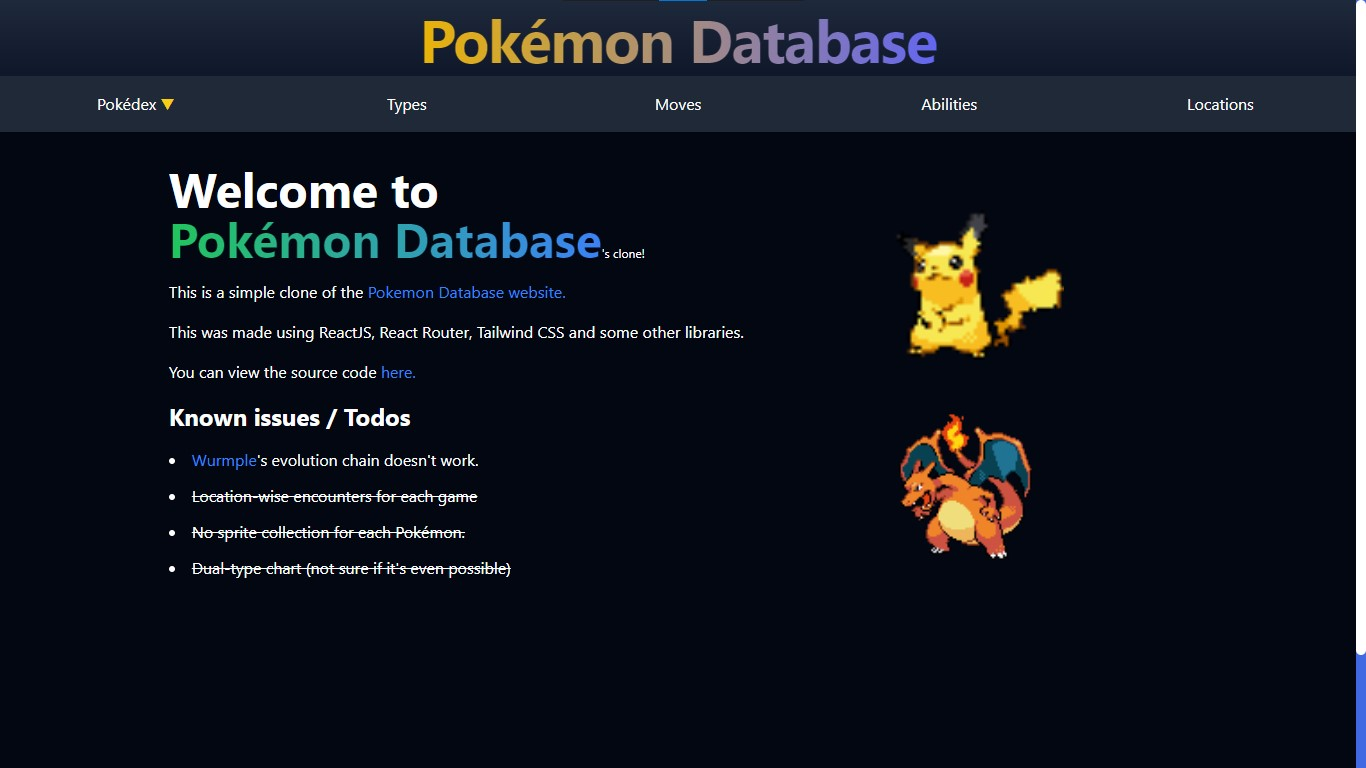
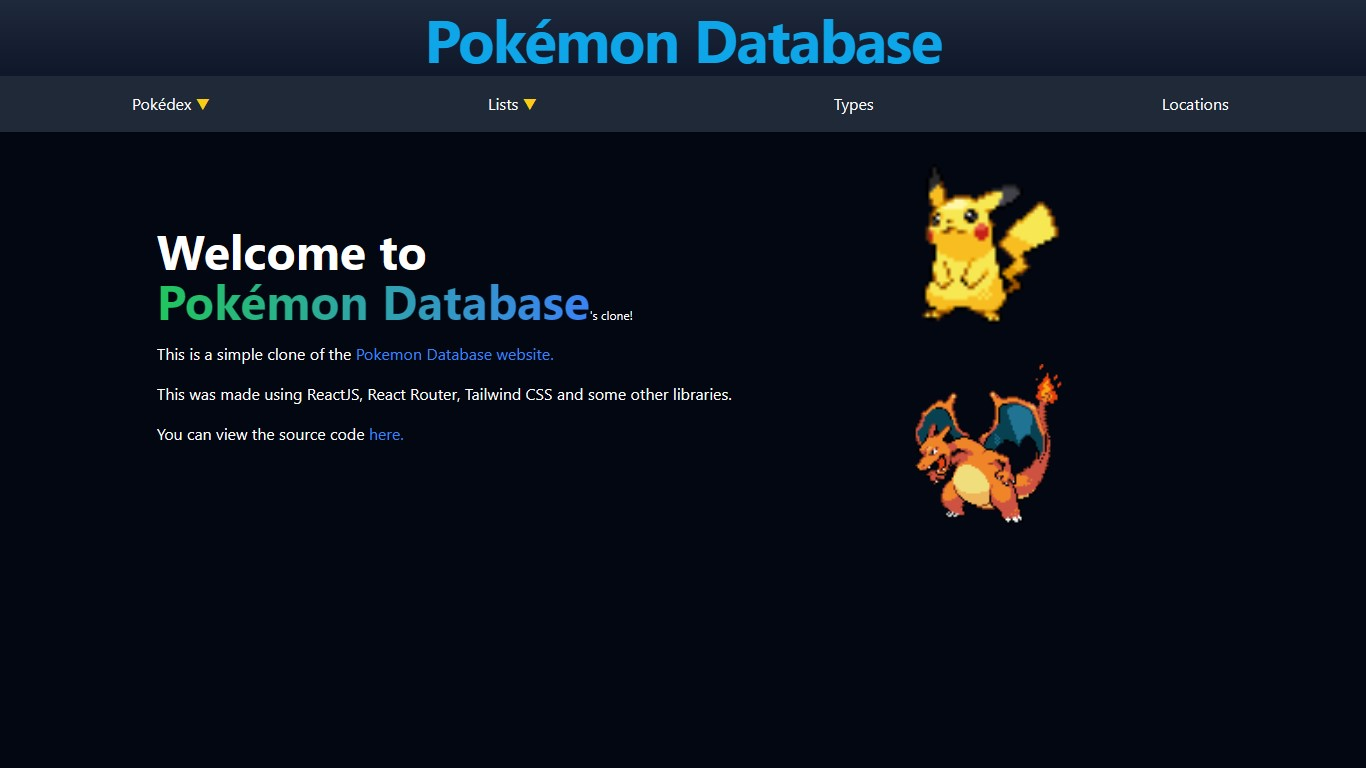
update screenshots

diff --git a/README.md b/README.md
@@ -8,9 +8,10 @@ A React app that uses the [PokemonAPI](https://pokeapi.co/) to display various i
 - TailwindCSS
 - React Router
 - Framer Motion
-- React Query
+- (Tanstack) React Query
 - Axios
 - React Loading Skeleton
+- React Tooltip
 
 ## Features:
 
@@ -77,3 +78,9 @@ A React app that uses the [PokemonAPI](https://pokeapi.co/) to display various i
 ![Responsive_2](./Screenshots/Responsive_2.jpg)
 
 ![Responsive_3](./Screenshots/Responsive_3.jpg)
+
+### 13. Different lists - berries, natures and egg groups
+
+![List_1](./Screenshots/List_1.jpg)
+
+![List_2](./Screenshots/List_2.jpg)
